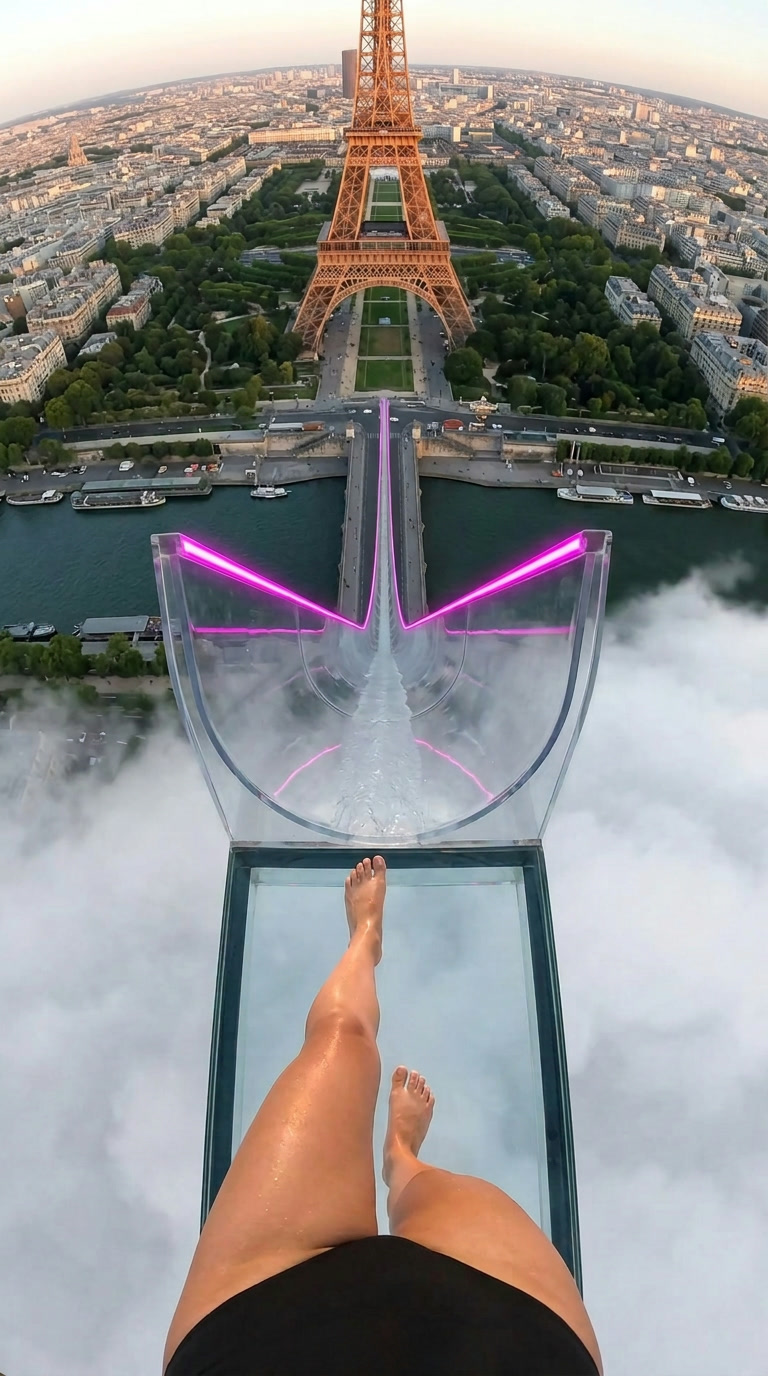
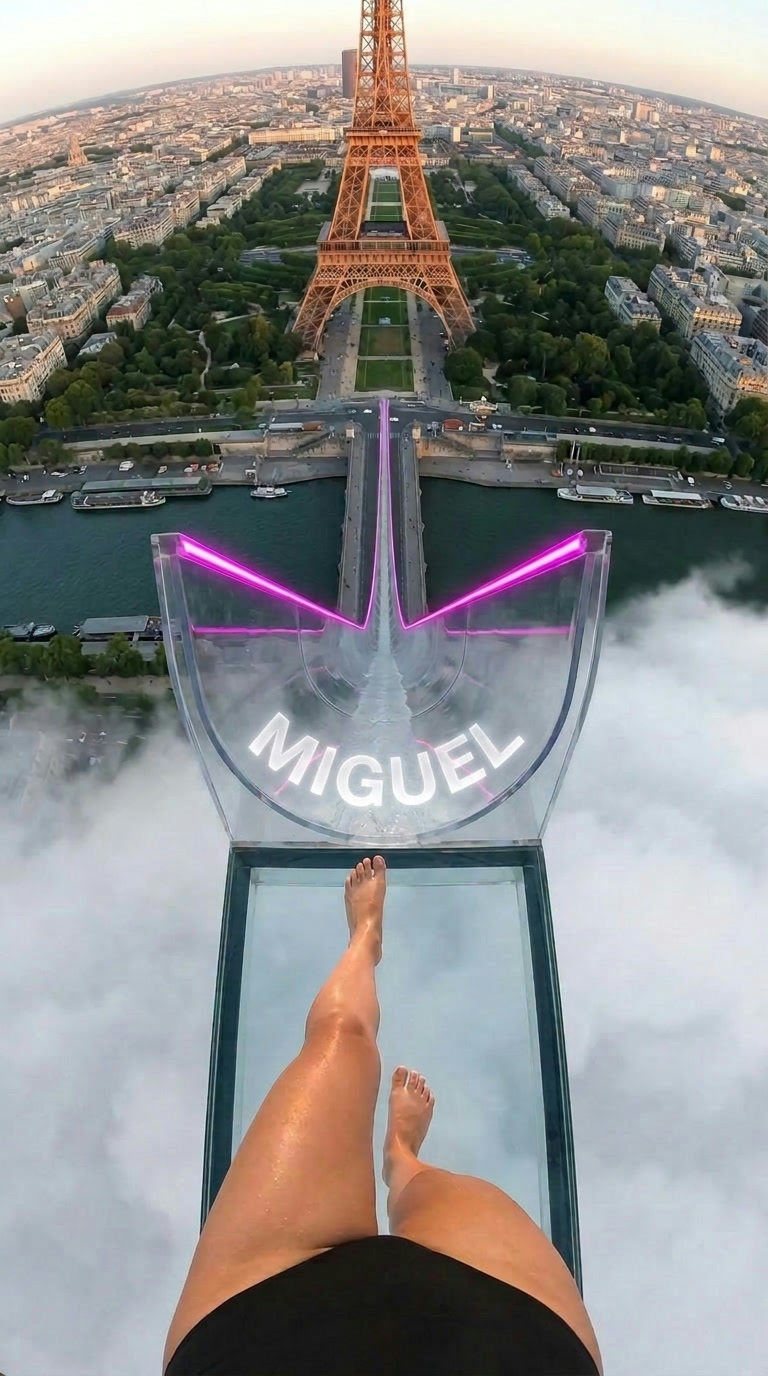
feat(aimagine): 'Adin kaydirakta' denemesi, 31 Ekim Paris videosunda takipci adi MIGUEL
Slide agzina kazili ad (onayli ilk kare degisti), rota adi anar, caption'da
tesekkur + cagri, rotaya ozel ilk yorum (canon/ISIM_KAYDIRAK.json). Olcut ve
sonuc abone/ABONE-PLANI.md.

diff --git a/AImagine-Fear/tests/test_etkilesim.py b/AImagine-Fear/tests/test_etkilesim.py
@@ -118,3 +118,39 @@ def test_canli_etkilesim_havuzu_gecerli():
             assert valid_engagement_question(satir), satir
             assert len(satir) <= 120, satir
             assert "subscribe" not in satir.lower(), satir
+
+
+def test_isim_kaydirak_rotasi_kendi_ilk_yorumunu_kullanir(monkeypatch, tmp_path):
+    gunluk = importlib.import_module("tools.gunluk")
+    out = tmp_path / "out" / "x"
+    out.mkdir(parents=True)
+    (out / "CAPTION.txt").write_text(CAP, encoding="utf-8")
+    yol = tmp_path / "isim.json"
+    yol.write_text(json.dumps({"x": {"ilk_yorum": "Comment your name"}}), encoding="utf-8")
+    monkeypatch.setattr(gunluk, "KOK", tmp_path)
+    monkeypatch.setattr(gunluk, "ISIM_KAYDIRAK", yol)
+    monkeypatch.setattr(gunluk.rota_ilk_yorumu, "__defaults__", (yol,))
+    monkeypatch.setattr(gunluk, "etkilesim_sec", lambda: ("Q one?", "C one?"))
+    komut = gunluk._yayin_komutu(tmp_path / "m.mp4", "x", False, "T", "a,b")
+    assert komut[komut.index("--first-comment") + 1] == "Comment your name"
+    assert komut[komut.index("--caption-question") + 1] == "Q one?"
+
+
+@pytest.mark.parametrize("icerik", ["{bozuk", "[]", '{"x": 5}', '{"x": {"ilk_yorum": 3}}'])
+def test_bozuk_isim_dosyasi_gunun_yorumuna_duser(tmp_path, icerik):
+    gunluk = importlib.import_module("tools.gunluk")
+    yol = tmp_path / "isim.json"
+    yol.write_text(icerik, encoding="utf-8")
+    assert gunluk.rota_ilk_yorumu("x", yol) == ""
+
+
+def test_canli_isim_kaydirak_yorumlari_gecerli():
+    veri = json.loads((KOK / "canon" / "ISIM_KAYDIRAK.json").read_text(encoding="utf-8"))
+    for slug, kayit in veri.items():
+        if slug.startswith("_"):
+            continue
+        assert (KOK / "routes" / (slug + ".md")).is_file(), slug
+        yorum = kayit["ilk_yorum"]
+        assert "#" not in yorum and "http" not in yorum.lower(), slug
+        rota = (KOK / "routes" / (slug + ".md")).read_text(encoding="utf-8")
+        assert kayit["isim"] in rota, "rota adi yazmiyor: %s" % slug

diff --git a/AImagine-Fear/tools/gunluk.py b/AImagine-Fear/tools/gunluk.py
@@ -899,6 +899,24 @@ def etkilesim_sec(gun: int | None = None, yol: Path = ETKILESIM) -> tuple[str, s
     return soru, yorum
 
 
+ISIM_KAYDIRAK = KOK / "canon" / "ISIM_KAYDIRAK.json"
+
+
+def rota_ilk_yorumu(slug: str, yol: Path = ISIM_KAYDIRAK) -> str:
+    """'Adin kaydirakta' rotasinin kendi ilk yorumu; yoksa "" (gunun yorumu kalir).
+
+    2026-10-30 denemesi: videoda bir takipcinin adi yazar, ilk yorum herkesi kendi
+    adini yazmaya cagirir. Gunun donen sorusu bu cagriyla celismesin diye yerine gecer.
+    """
+    try:
+        veri = json.loads(yol.read_text(encoding="utf-8"))
+    except (OSError, ValueError):
+        return ""
+    kayit = veri.get(slug) if isinstance(veri, dict) else None
+    yorum = kayit.get("ilk_yorum") if isinstance(kayit, dict) else None
+    return yorum.strip() if isinstance(yorum, str) else ""
+
+
 def _yayin_komutu(
     master: Path, slug: str, allow_same_day: bool, baslik: str, tags: str
 ) -> list[str] | None:
@@ -911,6 +929,7 @@ def _yayin_komutu(
         "--caption-file", str(caption), "--title", baslik, "--tags", tags,
     ]
     soru, yorum = etkilesim_sec()
+    yorum = rota_ilk_yorumu(slug) or yorum
     if soru:
         komut += ["--caption-question", soru]
     if yorum:

diff --git a/AImagine-Fear/routes/paris-eyfel-dolu.md b/AImagine-Fear/routes/paris-eyfel-dolu.md
@@ -12,7 +12,7 @@ SEHIR_ISIGI: yesil-civa
 LEGWEAR: a black high-cut one-piece swimsuit, legs bare from the hip down
 WEATHER: a soft summer evening over the Seine, the sky clear and pale gold
 FELAKET: a giant hail supercell under a green-black sky
-SOURCE: tools/kapi_ekle.py ile uretildi; mevsim kapisi A (2026-10-01) iskeleti, yuruyus acilisi (2026-10-09)
+SOURCE: tools/kapi_ekle.py ile uretildi; 2026-10-30 'Adin kaydirakta' denemesi (MIGUEL, canon/ISIM_KAYDIRAK.json); mevsim kapisi A (2026-10-01) iskeleti, yuruyus acilisi (2026-10-09)
 
 ## ILK KARE
 
@@ -20,13 +20,13 @@ Far below and ahead, filling the upper half of the frame: the Eiffel Tower seen 
 
 ## OPENING STATE
 
-The rider is already walking briskly, barefoot and mid-stride, along a narrow walkway of clear glass high above the Eiffel Tower in Paris, a few steps from the open mouth of the transparent slide. Far below and ahead, filling the upper half of the frame: the Eiffel Tower seen from the FRONT, from across the river, on a soft summer evening, its brown iron lattice glowing warm in the low sun and its four great legs arching over the long green lawns of the Champ de Mars. The Seine runs in front of it under its stone bridges. The grey rooftops of Paris stretch away to the horizon on every side. A thick white cloud bank lies across the city below the slide, and the slide dives down toward it. Her two separate bare legs and bare feet step forward in the lower half of the frame, wet and shining, and just ahead the two electric fuchsia rims of the slide mouth run away and down toward the cloud below. There is no railing. The weather is a soft summer evening over the Seine, the sky clear and pale gold.
+The rider is already walking briskly, barefoot and mid-stride, along a narrow walkway of clear glass high above the Eiffel Tower in Paris, a few steps from the open mouth of the transparent slide. Far below and ahead, filling the upper half of the frame: the Eiffel Tower seen from the FRONT, from across the river, on a soft summer evening, its brown iron lattice glowing warm in the low sun and its four great legs arching over the long green lawns of the Champ de Mars. The Seine runs in front of it under its stone bridges. The grey rooftops of Paris stretch away to the horizon on every side. A thick white cloud bank lies across the city below the slide, and the slide dives down toward it. Her two separate bare legs and bare feet step forward in the lower half of the frame, wet and shining, and just ahead the two electric fuchsia rims of the slide mouth run away and down toward the cloud below. Engraved into the clear acrylic floor of the slide mouth, between the two rims, the name MIGUEL glows in large white capital letters, part of the glass itself and readable from where she walks. There is no railing. The weather is a soft summer evening over the Seine, the sky clear and pale gold.
 
 ## BEATS
 
-[0.0-2.0] From the very first moment the rider is already walking briskly barefoot along the narrow glass walkway toward the slide, left foot, right foot, never stopping. Through the clear glass under her feet there is only empty air and the land far below. The open mouth of the slide grows with every step, its two electric fuchsia rims curving away and down toward the cloud, and the Eiffel Tower waits far below and ahead beyond it. She never stands still and never hesitates.
+[0.0-2.0] From the very first moment the rider is already walking briskly barefoot along the narrow glass walkway toward the slide, left foot, right foot, never stopping. Through the clear glass under her feet there is only empty air and the land far below. The open mouth of the slide grows with every step, its two electric fuchsia rims curving away and down toward the cloud, and the Eiffel Tower waits far below and ahead beyond it. The glowing engraved name MIGUEL on the slide floor stays sharp and readable, letter for letter, as she walks toward it. She never stands still and never hesitates.
 
-[2.0-4.0] She reaches the mouth, sits straight down into it feet first and pushes off, and the slide takes her at once into the steep plunge. The Eiffel Tower fills the centre of the frame, its iron lattice narrowing to the slender top, the three platforms stacked one above the other, the evening sun glinting on every rivet. The slide drops past the very top of the tower close enough to see the criss-crossed brown girders and the bolts rush up and past on the right, the long green lawns of the Champ de Mars far below. Below, the white sea of cloud rushes up toward her and the slide dives straight into it.
+[2.0-4.0] She reaches the mouth, sits straight down over the glowing name feet first and pushes off, and the slide takes her at once into the steep plunge. The Eiffel Tower fills the centre of the frame, its iron lattice narrowing to the slender top, the three platforms stacked one above the other, the evening sun glinting on every rivet. The slide drops past the very top of the tower close enough to see the criss-crossed brown girders and the bolts rush up and past on the right, the long green lawns of the Champ de Mars far below. Below, the white sea of cloud rushes up toward her and the slide dives straight into it.
 
 [4.0-6.0] The slide plunges into the cloud. The frame becomes an even, flat grey-white murk; only her two legs, both feet and the two electric fuchsia rims stay readable. The air turns suddenly cold, the murk inside the cloud turns a sickly green-grey, and the first pellets of ice crack against the acrylic and bounce off the lens.
 
@@ -53,6 +53,8 @@ The camera lies buried under a heap of hailstones. The frame is almost black, wi
 ## CAPTION
 
 You're sliding over the top of the Eiffel Tower in Paris on a summer evening, then through a cloud into hail the size of fists. Would you still go down? ⛈🧊
+
+This ride is for Miguel (@miguelangel_blancog), thank you for every comment 💜 Want your name on the next slide? Follow and comment your name below 👇
 
 #MegaSlideFear #EiffelTower #WaterSlide #POVReels #CGIAdventure
 

diff --git a/AImagine-Fear/abone/ABONE-PLANI.md b/AImagine-Fear/abone/ABONE-PLANI.md
@@ -46,6 +46,26 @@ B. **"Adin kaydirakta."** Her gunun herkese acik videosunda bir abonenin adi cam
    kare gozle kontrol. Atina testi okunmadan BASLAMAZ.
 C. Asagidaki Part 2 (7) abonenin KALMASI icin, cekmek icin degil.
 
+**30 Ekim Ihsan kararlari:**
+- A (ruya) BEKLER: 10-20 abone olunca acilir, insanlar sirayla istesin, deger kazansin.
+  Tek aboneye mesaj atilmadi (gerek kalmadi; zaten Chrome'daki hesap aimagine degil).
+- B ABONE DEGIL TAKIPCI icin: "Takip et, adini yorum yaz, sonraki kaydirakta senin adin."
+  Tek deneme, tutarsa devam.
+
+**B denemesi: 31 Ekim Paris (paris-eyfel-dolu), ad MIGUEL** (@miguelangel_blancog,
+Giza ve Roma'ya tekrar tekrar "Excelente video" yazan takipci).
+- Ad slide agzinin seffaf zeminine kazili, beyaz parlak. 4 gorsel denendi (~64 kredi):
+  yuruyus yoluna yazilinca bacak "G"yi kapatti ("MIUEL"); slide agzinda tek ve tam okunan
+  secildi -> `ilk_kare/paris-eyfel-dolu.jpg` (eski onayli gorsel git gecmisinde).
+- Rota OPENING STATE + [0-2] + [2-4] adi anar (Seedance silmesin). Kanon NEGATIVE
+  "NO on-screen text" diyor; ad sahnenin parcasi olarak yazildi. Risk: video adi
+  bozabilir, yayindan sonra ilk 2 sn gozle bakilacak.
+- Caption "You're" ile baslar (kural), tesekkur + cagri ikinci paragraf. Ilk yorum
+  `canon/ISIM_KAYDIRAK.json`'dan: "Comment your name 👇 The next slide could carry it."
+- Olcut (48 saat): ad yazan yorum sayisi. Son reel'lerde yorum 0-10 arasi. 15+ ad
+  yorumu = TUTTU, devam (her gun bir takipci adi). 5'ten az = birakilir.
+  Ek: takipci 29 Ekim 16,3K, gunluk artisa bak.
+
 **Ilk tur:**
 7. **"Kapinin obur tarafi" (Part 2).** Herkese acik video karanlikta biter;
    abone devamini gorur: kasirganin gozunun ici, kraterin ici, selin alti. Herkese
